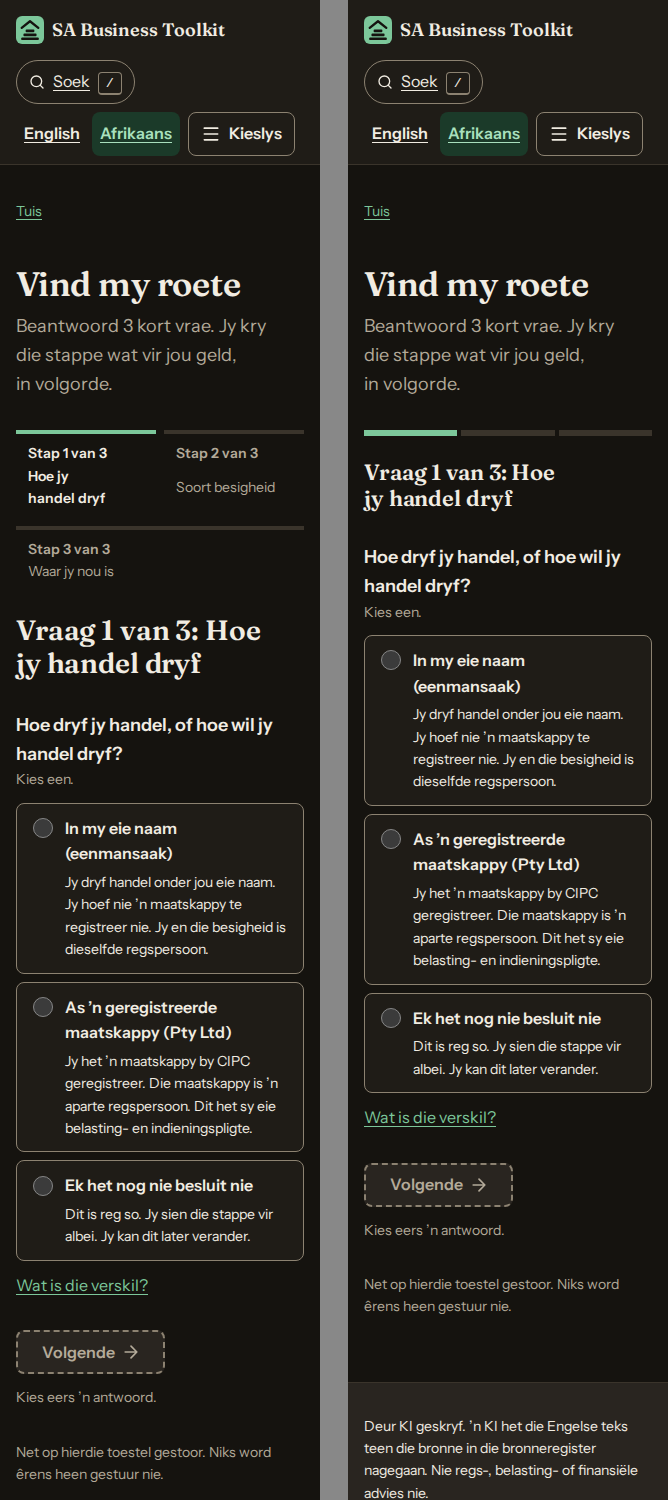
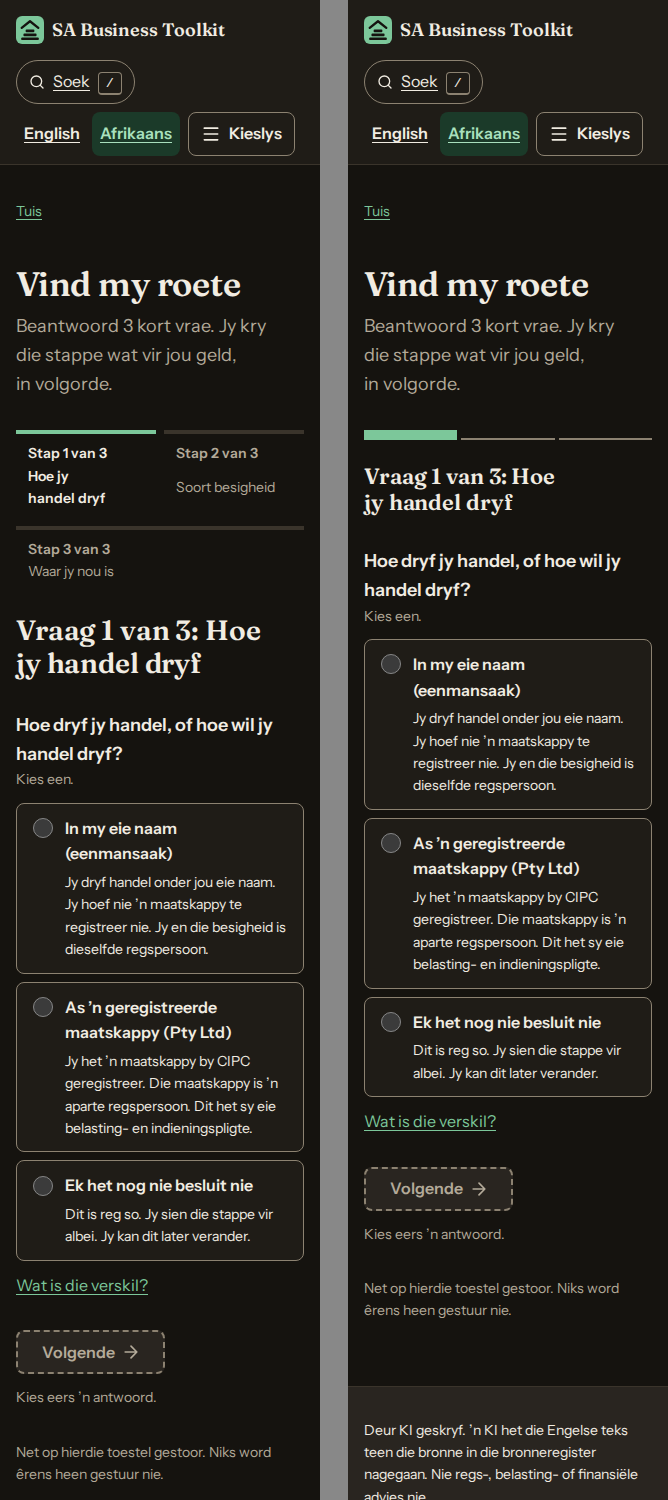
docs(docs): tools review pass 1 and its fixes, Find my path screenshots retaken
docs/reviews/WP-50-phase3-tools-pass1.md: verdict NOT CLEAN (one major,
eight minor), what the reviewer ran, what checked out, and "Fixed in
06b647b". The eight Find my path pairs at 320px in
docs/reviews/WP-50-phase3-tools/ are retaken from the fixed build (the
three-state phone stepper and the summary's list).

Claude-Session: https://claude.ai/code/session_01XWc4STqyVXQVKUNeMuaPFG

diff --git a/docs/reviews/WP-50-phase3-tools-pass1.md b/docs/reviews/WP-50-phase3-tools-pass1.md
@@ -1,0 +1,61 @@
+# WP-50 Phase 3, item 4 (the tools): review pass 1
+
+**NOT CLEAN**: zero blocker, one major, eight minor.
+
+- Branch reviewed: `wp50-p3-tools` at `81200d3`, compared with `ea15b4a`.
+- Reviewer: a fresh instance, checklists `stoep-design`, `web-interface-guidelines`, `accessibility`, `review-animations`. This file records the findings as the coordinator relayed them; the reviewer's full text is with the coordinator.
+
+## What the reviewer ran
+
+| Check | Result |
+| --- | --- |
+| `pnpm build`, both trees | OK; heaviest document page 24.3 KB, heaviest other page 34.9 KB; 200 pages |
+| `pnpm gate:fast` | exit 0; 82 test files, 3,447 tests |
+| e2e chromium + mobile + nojs | 1,790 passed, 126 skipped, including all 30 search Enter tests |
+| axe, tools and dialogs | 104 passed, including the 8 new tests |
+| Probes | 320, 360 and 1280px; 200% text; forced colours |
+| Print | PDFs pixel-identical to the base |
+| Mutation probes | the summary's order and "Do this next" both caught by the tests |
+| Base dialogs | measured at left 0, top 0, as the item says |
+
+## Findings
+
+**M1 (major)**: below 30rem the done tick (`.st-wizard__stepper-n::before`) sits inside the visually hidden span, so it is clipped to 1×1 and invisible. Done and current bars are the same colour and height, so the phone stepper shows two states, not three. The test in `tools.spec.ts` checks `borderRightWidth: 2px` at 320px and passes anyway, and `docs/design-system.md` and the code comment claim "three states, not by colour alone". Decision: on phones the bar is a plain segmented progress bar, filled up to and including the current step and empty after it, and the h2 "Question n of 3: …" carries the step. Make the current segment distinguishable from done ones without colour alone, and keep the tick only where it is actually drawn (from 30rem). The test should check the tick from 30rem, with its box really drawn (bigger than 1×1, not clipped), and the three-state bar at 320px. Correct the comment and the design system.
+
+**m1**: in forced colours, steps after the current one should draw their bar in `GrayText`.
+
+**m2**: the empty segment uses `--st-border` (about 1.4:1 on the page). Use `--st-border-strong` (3:1 or more on `--st-bg`) below 30rem, in both themes; check the pair is in `CONTRAST_PAIRS`.
+
+**m3**: add a test that the first answer is within 740px at 360×740 in English and Afrikaans, the reader's real gain. Keep the 698px limit outside Chromium, but say in its comment that it is provisional until the first CI WebKit figure, which the coordinator will record.
+
+**m4**: in `nojs.spec.ts` the new describe sits under the existing "WCAG 1.4.10 at 320px without JavaScript" comment; move it above, so the comment heads its own describe again.
+
+**m5**: render the summary's kinds of business as a small list in tick order, the first marked "(main)" (and its Afrikaans equivalent, through i18n keys in both files), instead of a comma-joined string. Update the DOM test.
+
+**m6**: use the shared `.st-visually-hidden` rules (a class or a shared selector) instead of copying them inline in `Wizard.astro`.
+
+**m7**: the stepper's "done" means "before the current step", so after "Change" an answered later step shows as to come. Backlog row.
+
+**m8**: with text at 200% at 320px the confirm dialog's buttons break words. Pre-existing. Backlog row.
+
+## What checked out
+
+- "Change" keeps the answers, except a "Pty Ltd, growing" stage, which is correctly dropped when how the reader trades changes; focus goes to the question's heading; the tab order is right; the summary is correct for "I have not decided" with three kinds of business, in both languages.
+- "Do this next" is right through marking and unmarking steps, and with "Only what applies to me".
+- "Edit answers" is still a link.
+- The template's missing-item links focus the right fields.
+- The search dialog's links go through `href()` and are present without JavaScript.
+- Printed text is identical to the base.
+
+## Fixed in `06b647b`
+
+- **M1**: below 30rem the stepper is a segmented progress bar, filled up to and including the current step: to come a 2px line, done a 6px segment, current a 10px segment, all on one bottom edge, so the stepper is 10px tall at every step and nothing moves on Next or Back. The three states differ in height as well as colour; the h2 names the step. The tick rule is inside `@media (width >= 30rem)`, so it is drawn only where the words show. `tools.spec.ts`: at 320px, the bars' widths are `10px 2px 2px` on question 1, `6px 6px 10px` on question 3 and `6px 10px 2px` after Back, done and current share a colour and to come does not, the stepper keeps its height, and the tick's `content` is `none`; at 1280px, on question 2, the done step's tick has `content: ""`, a 2px border, a box wider and taller than 1px, its words are not clipped (`clip-path: none`, more than 1px wide), and the other two steps have no tick. The code comment and `docs/design-system.md` say so.
+- **m1**: `.st-wizard__stepper li[aria-current='step'] ~ li` is `GrayText` in forced colours (at every width).
+- **m2**: the to-come line is `--st-border-strong`; `border-strong` on `bg` is already in `CONTRAST_PAIRS` (UI, 3:1) and passes in both themes.
+- **m3**: `tools.spec.ts`, "at 360×740: the first answer is on the first screen", EN and AF (554px and 608px; the limit is 740). The 698px limit's comment says it is provisional until the first CI WebKit figure is recorded.
+- **m4**: the comment heads "no sideways scrolling at 320px without JavaScript" again.
+- **m5**: the kinds of business are a server-rendered `<ul>`, one hidden `<li>` per kind; `#summarise()` shows, orders and marks them, and writes no markup. The first is marked "(main)" / "(hoof)" (`wizard.summary.main`) when there are two or more. `tests/dom/wizard.test.ts` checks the list, its order, the marker and none for a single kind; `tools.spec.ts` checks the visible items in both languages.
+- **m6**: `.st-visually-hidden-narrow` in `utilities.css`, the same declarations as `.st-visually-hidden` below 30rem, is on the stepper's two spans; the copy in `Wizard.astro` is gone.
+- **m7, m8**: rows in `docs/reviews/backlog.md`.
+- The tax invoice's lead is unchanged, as the coordinator asked.
+- Screenshots: the Find my path pairs in `docs/reviews/WP-50-phase3-tools/` are retaken from this build.
